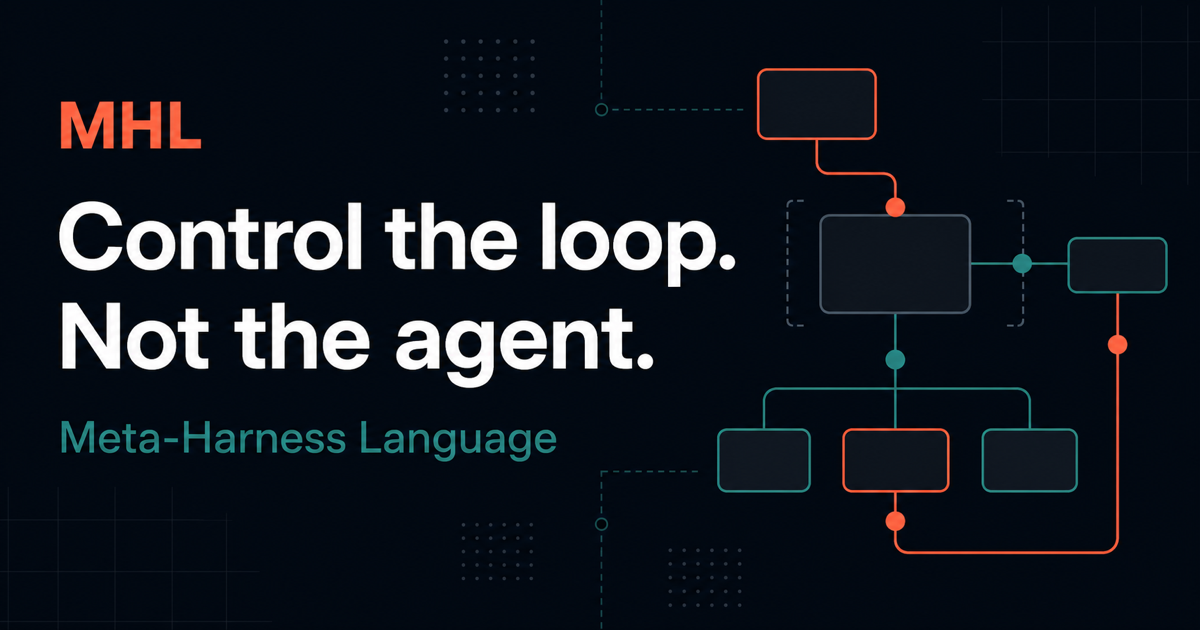
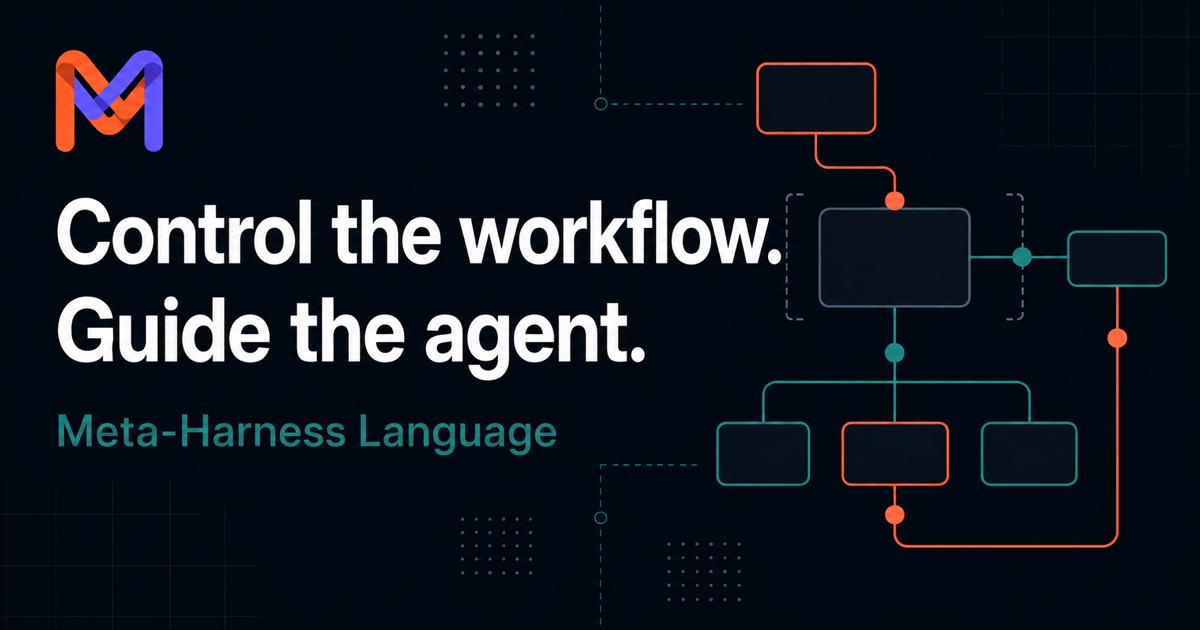
feat: enhance HTML metadata for improved SEO and social sharing across documentation pages

diff --git a/docs/site/Docs-Servers.dc.html b/docs/site/Docs-Servers.dc.html
@@ -3,13 +3,28 @@
 <head>
 <meta charset="utf-8">
 <meta name="viewport" content="width=device-width, initial-scale=1">
+<title>Serving workflows — Meta-Harness Language</title>
+<meta name="description" content="How to serve MHL workflows to other agents: mhl serve mcp over stdio and Streamable HTTP, async run/* methods and mhl_run_* control tools, run/resume for human-in-the-loop, mhl:// resources for workflow and run detail, and mhl serve a2a." />
+<meta property="og:type" content="article" />
+<meta property="og:site_name" content="Meta-Harness Language" />
+<meta property="og:title" content="Serving workflows — Meta-Harness Language" />
+<meta property="og:description" content="How to serve MHL workflows to other agents over MCP and A2A." />
+<meta property="og:url" content="https://mh-language.github.io/mhl-core-runtime/Docs-Servers.dc.html" />
+<meta property="og:image" content="https://mh-language.github.io/mhl-core-runtime/assets/og.png" />
+<meta property="og:image:alt" content="MHL — Control the workflow. Guide the agent." />
+<meta property="og:image:type" content="image/png" />
+<meta property="og:image:width" content="1200" />
+<meta property="og:image:height" content="630" />
+<meta name="twitter:card" content="summary_large_image" />
+<meta name="twitter:title" content="Serving workflows — Meta-Harness Language" />
+<meta name="twitter:description" content="How to serve MHL workflows to other agents over MCP and A2A." />
+<meta name="twitter:image" content="https://mh-language.github.io/mhl-core-runtime/assets/og.png" />
+<meta name="twitter:image:alt" content="MHL — Control the workflow. Guide the agent." />
 <script src="./support.js"></script>
 </head>
 <body>
 <x-dc>
 <helmet>
-<title>Serving workflows — Meta-Harness Language</title>
-<meta name="description" content="How to serve MHL workflows to other agents: mhl serve mcp over stdio and Streamable HTTP, async run/* methods and mhl_run_* control tools, run/resume for human-in-the-loop, mhl:// resources for workflow and run detail, and mhl serve a2a." />
 <link rel="icon" href="assets/mhl-logo.png" />
 <link rel="preconnect" href="https://fonts.googleapis.com" />
 <link rel="preconnect" href="https://fonts.gstatic.com" crossorigin />

diff --git a/docs/site/Docs-Reference.dc.html b/docs/site/Docs-Reference.dc.html
@@ -3,13 +3,28 @@
 <head>
 <meta charset="utf-8">
 <meta name="viewport" content="width=device-width, initial-scale=1">
+<title>MHL Reference — Meta-Harness Language</title>
+<meta name="description" content="Self-contained MHL language reference: syntax, agents, prompts, memory, tools, extensions, pipelines, tests, and CLI behavior." />
+<meta property="og:type" content="article" />
+<meta property="og:site_name" content="Meta-Harness Language" />
+<meta property="og:title" content="MHL Reference — Meta-Harness Language" />
+<meta property="og:description" content="Self-contained MHL language reference: syntax, agents, prompts, memory, tools, extensions, pipelines, tests, and CLI behavior." />
+<meta property="og:url" content="https://mh-language.github.io/mhl-core-runtime/Docs-Reference.dc.html" />
+<meta property="og:image" content="https://mh-language.github.io/mhl-core-runtime/assets/og.png" />
+<meta property="og:image:alt" content="MHL — Control the workflow. Guide the agent." />
+<meta property="og:image:type" content="image/png" />
+<meta property="og:image:width" content="1200" />
+<meta property="og:image:height" content="630" />
+<meta name="twitter:card" content="summary_large_image" />
+<meta name="twitter:title" content="MHL Reference — Meta-Harness Language" />
+<meta name="twitter:description" content="Self-contained MHL language reference: syntax, agents, prompts, memory, tools, extensions, pipelines, tests, and CLI behavior." />
+<meta name="twitter:image" content="https://mh-language.github.io/mhl-core-runtime/assets/og.png" />
+<meta name="twitter:image:alt" content="MHL — Control the workflow. Guide the agent." />
 <script src="./support.js"></script>
 </head>
 <body>
 <x-dc>
 <helmet>
-<title>MHL Reference — Meta-Harness Language</title>
-<meta name="description" content="Self-contained MHL language reference: syntax, agents, prompts, memory, tools, extensions, pipelines, tests, and CLI behavior." />
 <link rel="icon" href="assets/mhl-logo.png" />
 <link rel="preconnect" href="https://fonts.googleapis.com" />
 <link rel="preconnect" href="https://fonts.gstatic.com" crossorigin />

diff --git a/docs/site/Docs-Extensions.dc.html b/docs/site/Docs-Extensions.dc.html
@@ -3,13 +3,28 @@
 <head>
 <meta charset="utf-8">
 <meta name="viewport" content="width=device-width, initial-scale=1">
+<title>Extending MHL — Runtime extension guide</title>
+<meta name="description" content="How to extend the MHL runtime with isolated executables, manifests, permissions, JSON-RPC, and lock files." />
+<meta property="og:type" content="article" />
+<meta property="og:site_name" content="Meta-Harness Language" />
+<meta property="og:title" content="Extending MHL — Runtime extension guide" />
+<meta property="og:description" content="How to extend the MHL runtime with isolated executables, manifests, permissions, JSON-RPC, and lock files." />
+<meta property="og:url" content="https://mh-language.github.io/mhl-core-runtime/Docs-Extensions.dc.html" />
+<meta property="og:image" content="https://mh-language.github.io/mhl-core-runtime/assets/og.png" />
+<meta property="og:image:alt" content="MHL — Control the workflow. Guide the agent." />
+<meta property="og:image:type" content="image/png" />
+<meta property="og:image:width" content="1200" />
+<meta property="og:image:height" content="630" />
+<meta name="twitter:card" content="summary_large_image" />
+<meta name="twitter:title" content="Extending MHL — Runtime extension guide" />
+<meta name="twitter:description" content="How to extend the MHL runtime with isolated executables, manifests, permissions, JSON-RPC, and lock files." />
+<meta name="twitter:image" content="https://mh-language.github.io/mhl-core-runtime/assets/og.png" />
+<meta name="twitter:image:alt" content="MHL — Control the workflow. Guide the agent." />
 <script src="./support.js"></script>
 </head>
 <body>
 <x-dc>
 <helmet>
-<title>Extending MHL — Runtime extension guide</title>
-<meta name="description" content="How to extend the MHL runtime with isolated executables, manifests, permissions, JSON-RPC, and lock files." />
 <link rel="icon" href="assets/mhl-logo.png" />
 <link rel="preconnect" href="https://fonts.googleapis.com" />
 <link rel="preconnect" href="https://fonts.gstatic.com" crossorigin />

diff --git a/docs/site/index.html b/docs/site/index.html
@@ -4,13 +4,29 @@
 <head>
   <meta charset="utf-8">
   <meta name="viewport" content="width=device-width, initial-scale=1">
+  <title>MHL — Meta-Harness Language</title>
+  <meta name="description" content="MHL — a small executable language for controlled, auditable AI workflows." />
+  <meta property="og:type" content="website" />
+  <meta property="og:site_name" content="Meta-Harness Language" />
+  <meta property="og:title" content="MHL — Meta-Harness Language" />
+  <meta property="og:description" content="A small executable language for controlled, auditable AI workflows." />
+  <meta property="og:url" content="https://mh-language.github.io/mhl-core-runtime/" />
+  <meta property="og:image" content="https://mh-language.github.io/mhl-core-runtime/assets/og.png" />
+  <meta property="og:image:alt" content="MHL — Control the workflow. Guide the agent." />
+  <meta property="og:image:type" content="image/png" />
+  <meta property="og:image:width" content="1200" />
+  <meta property="og:image:height" content="630" />
+  <meta name="twitter:card" content="summary_large_image" />
+  <meta name="twitter:title" content="MHL — Meta-Harness Language" />
+  <meta name="twitter:description" content="A small executable language for controlled, auditable AI workflows." />
+  <meta name="twitter:image" content="https://mh-language.github.io/mhl-core-runtime/assets/og.png" />
+  <meta name="twitter:image:alt" content="MHL — Control the workflow. Guide the agent." />
   <script src="./support.js"></script>
 </head>
 
 <body>
   <x-dc>
     <helmet>
-      <meta name="description" content="MHL — a small executable language for controlled, auditable AI workflows." />
       <link rel="icon" href="assets/mhl-logo.png" />
       <link rel="preconnect" href="https://fonts.googleapis.com" />
       <link rel="preconnect" href="https://fonts.gstatic.com" crossorigin />

diff --git a/docs/site/Docs-Specification.dc.html b/docs/site/Docs-Specification.dc.html
@@ -3,13 +3,28 @@
 <head>
 <meta charset="utf-8">
 <meta name="viewport" content="width=device-width, initial-scale=1">
+<title>MHL Language Specification</title>
+<meta name="description" content="ECMA-style language specification for Meta-Harness Language (MHL)." />
+<meta property="og:type" content="article" />
+<meta property="og:site_name" content="Meta-Harness Language" />
+<meta property="og:title" content="MHL Language Specification" />
+<meta property="og:description" content="ECMA-style language specification for Meta-Harness Language (MHL)." />
+<meta property="og:url" content="https://mh-language.github.io/mhl-core-runtime/Docs-Specification.dc.html" />
+<meta property="og:image" content="https://mh-language.github.io/mhl-core-runtime/assets/og.png" />
+<meta property="og:image:alt" content="MHL — Control the workflow. Guide the agent." />
+<meta property="og:image:type" content="image/png" />
+<meta property="og:image:width" content="1200" />
+<meta property="og:image:height" content="630" />
+<meta name="twitter:card" content="summary_large_image" />
+<meta name="twitter:title" content="MHL Language Specification" />
+<meta name="twitter:description" content="ECMA-style language specification for Meta-Harness Language (MHL)." />
+<meta name="twitter:image" content="https://mh-language.github.io/mhl-core-runtime/assets/og.png" />
+<meta name="twitter:image:alt" content="MHL — Control the workflow. Guide the agent." />
 <script src="./support.js"></script>
 </head>
 <body>
 <x-dc>
 <helmet>
-<title>MHL Language Specification</title>
-<meta name="description" content="ECMA-style language specification for Meta-Harness Language (MHL)." />
 <link rel="icon" href="assets/mhl-logo.png" />
 <link rel="preconnect" href="https://fonts.googleapis.com" />
 <link rel="preconnect" href="https://fonts.gstatic.com" crossorigin />
